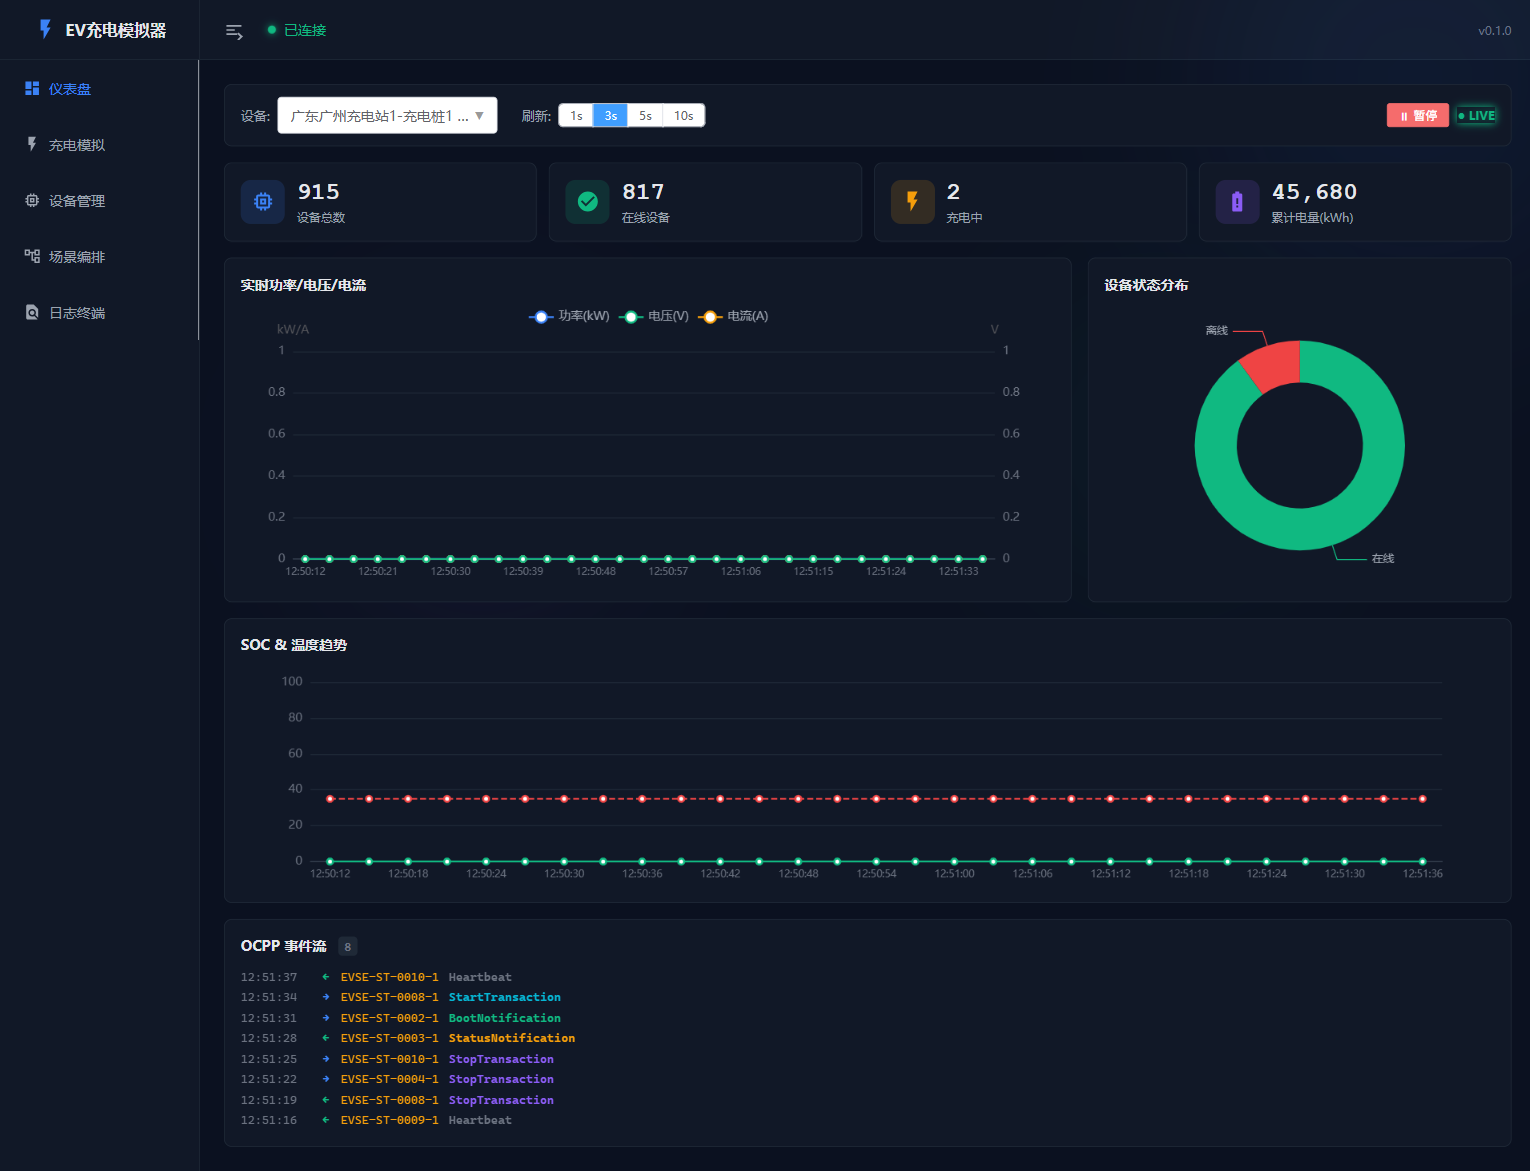
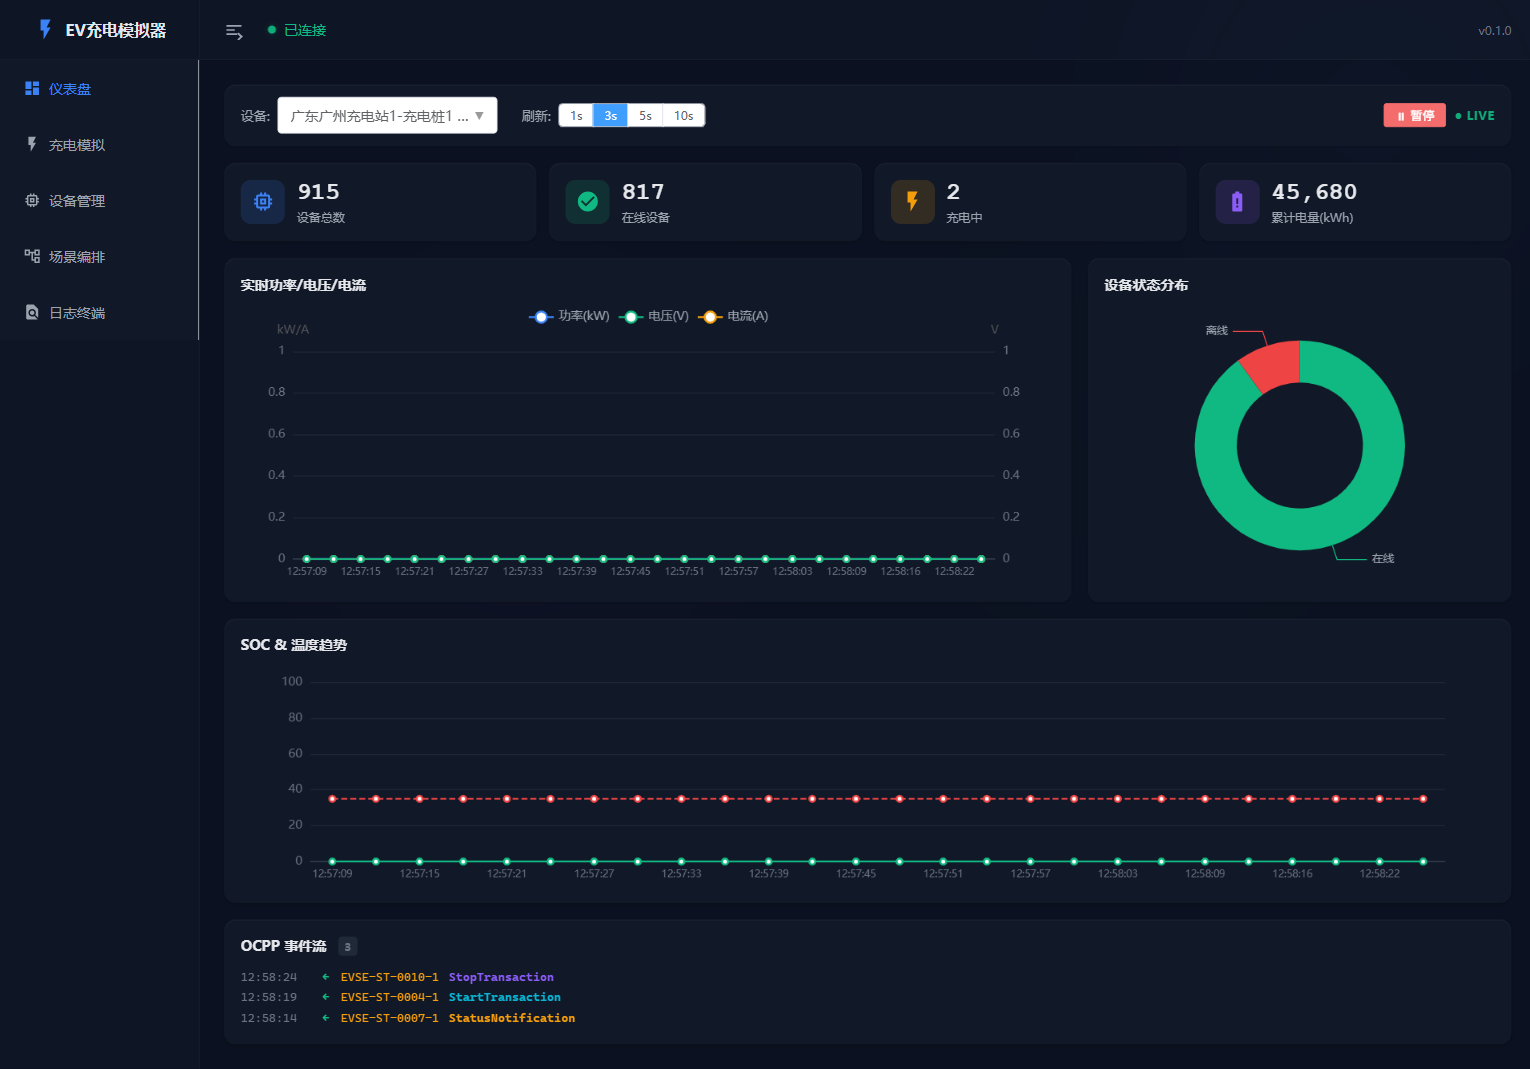
fix(simulator): refined UI - borderless cards, subtle glow, comfortable design
- Remove hard card borders, use transparent border + subtle shadow
- Reduce glow intensity from 0.3 to 0.15 opacity
- Ambient orbs: opacity 0.07 → 0.03, blur 80px → 120px
- Stat icon hover: scale 1.1 → 1.05, remove glow box-shadow
- Metric card hover: translateY(-2px) → translateY(-1px), remove glow
- LIVE indicator: remove text-shadow, pure color pulse
- SOC ring: remove ring-glow animation, static drop-shadow
- Sidebar/header: borders #1F2937 → rgba(255,255,255,0.04)
- Card hover: background change instead of border glow
- Linear/Vercel/Raycast inspired comfortable aesthetic

diff --git a/apps/simulator-web/src/assets/main.css b/apps/simulator-web/src/assets/main.css
@@ -68,13 +68,13 @@
   --easing-default: cubic-bezier(0.4, 0, 0.2, 1);
   --easing-spring: cubic-bezier(0.16, 1, 0.3, 1);
 
-  /* ===== 发光效果 ===== */
-  --glow-blue: 0 0 20px rgba(59, 130, 246, 0.3), 0 0 40px rgba(59, 130, 246, 0.1);
-  --glow-green: 0 0 20px rgba(16, 185, 129, 0.3), 0 0 40px rgba(16, 185, 129, 0.1);
-  --glow-yellow: 0 0 20px rgba(245, 158, 11, 0.3), 0 0 40px rgba(245, 158, 11, 0.1);
-  --glow-purple: 0 0 20px rgba(139, 92, 246, 0.3), 0 0 40px rgba(139, 92, 246, 0.1);
-  --glow-red: 0 0 20px rgba(239, 68, 68, 0.3), 0 0 40px rgba(239, 68, 68, 0.1);
-  --glow-cyan: 0 0 20px rgba(6, 182, 212, 0.3), 0 0 40px rgba(6, 182, 212, 0.1);
+  /* ===== 发光效果（极柔和） ===== */
+  --glow-blue: 0 0 12px rgba(59, 130, 246, 0.15);
+  --glow-green: 0 0 12px rgba(16, 185, 129, 0.15);
+  --glow-yellow: 0 0 12px rgba(245, 158, 11, 0.15);
+  --glow-purple: 0 0 12px rgba(139, 92, 246, 0.15);
+  --glow-red: 0 0 12px rgba(239, 68, 68, 0.15);
+  --glow-cyan: 0 0 12px rgba(6, 182, 212, 0.15);
 
   /* ===== 布局 ===== */
   --sidebar-width: 200px;
@@ -134,14 +134,15 @@ html, body, #app {
 
 .status-dot.online {
   background: var(--color-success);
-  box-shadow: 0 0 6px var(--color-success);
+  box-shadow: 0 0 4px rgba(16, 185, 129, 0.25);
 }
 
 .status-dot.offline { background: var(--color-error); }
 
 .status-dot.charging {
   background: var(--color-warning);
-  animation: pulse 1.5s infinite;
+  box-shadow: 0 0 4px rgba(245, 158, 11, 0.25);
+  animation: glow-pulse 2.5s ease-in-out infinite;
 }
 
 @keyframes pulse {
@@ -185,38 +186,23 @@ html, body, #app {
   --el-dialog-title-font-size: 16px;
 }
 
-/* ===== 增强卡片样式（发光边框 + 悬浮效果） ===== */
+/* ===== 增强卡片样式（无边框 + 微妙深度） ===== */
 .card {
   background: var(--color-bg-card);
-  border: 1px solid var(--color-border-light);
-  border-radius: var(--radius-md);
+  border: 1px solid transparent;
+  border-radius: var(--radius-lg);
   padding: var(--space-16);
-  transition: border-color var(--duration-normal) var(--easing-default),
+  transition: background var(--duration-normal) var(--easing-default),
               box-shadow var(--duration-normal) var(--easing-default),
               transform var(--duration-fast) var(--easing-spring);
   position: relative;
   overflow: hidden;
-}
-
-.card::before {
-  content: '';
-  position: absolute;
-  top: 0;
-  left: 0;
-  right: 0;
-  height: 1px;
-  background: linear-gradient(90deg, transparent, rgba(59, 130, 246, 0.3), transparent);
-  opacity: 0;
-  transition: opacity var(--duration-normal);
+  box-shadow: 0 1px 3px rgba(0, 0, 0, 0.2), inset 0 1px 0 rgba(255, 255, 255, 0.03);
 }
 
 .card:hover {
-  border-color: rgba(59, 130, 246, 0.2);
-  box-shadow: 0 0 20px rgba(59, 130, 246, 0.08);
-}
-
-.card:hover::before {
-  opacity: 1;
+  background: #151d2e;
+  box-shadow: 0 4px 12px rgba(0, 0, 0, 0.25), inset 0 1px 0 rgba(255, 255, 255, 0.05);
 }
 
 /* ===== 入场动画 ===== */
@@ -264,15 +250,13 @@ html, body, #app {
   }
 }
 
-/* ===== 发光脉冲 ===== */
+/* ===== 发光脉冲（柔和版） ===== */
 @keyframes glow-pulse {
   0%, 100% {
-    box-shadow: 0 0 8px currentColor;
     opacity: 1;
   }
   50% {
-    box-shadow: 0 0 16px currentColor, 0 0 32px currentColor;
-    opacity: 0.8;
+    opacity: 0.7;
   }
 }
 
@@ -351,17 +335,17 @@ html, body, #app {
   to { transform: rotate(360deg); }
 }
 
-/* ===== 状态点脉冲增强 ===== */
+/* ===== 状态点脉冲（柔和） ===== */
 .status-dot.online {
   background: var(--color-success);
-  box-shadow: 0 0 6px var(--color-success);
-  animation: glow-pulse 2s ease-in-out infinite;
+  box-shadow: 0 0 6px rgba(16, 185, 129, 0.3);
+  animation: glow-pulse 2.5s ease-in-out infinite;
   color: var(--color-success);
 }
 
 .status-dot.charging {
   background: var(--color-warning);
-  box-shadow: 0 0 8px var(--color-warning);
-  animation: glow-pulse 1.5s ease-in-out infinite;
+  box-shadow: 0 0 6px rgba(245, 158, 11, 0.3);
+  animation: glow-pulse 2s ease-in-out infinite;
   color: var(--color-warning);
 }

diff --git a/apps/simulator-web/src/views/charging/index.vue b/apps/simulator-web/src/views/charging/index.vue
@@ -342,7 +342,7 @@ const socColor = computed(() => {
 
 .soc-progress {
   transition: stroke-dasharray 1s ease;
-  animation: ring-glow 3s ease-in-out infinite;
+  filter: drop-shadow(0 0 3px currentColor);
 }
 
 .soc-center {
@@ -374,12 +374,12 @@ const socColor = computed(() => {
 .metric-card {
   padding: 16px;
   text-align: center;
-  transition: transform var(--duration-normal) var(--easing-spring),
-              box-shadow var(--duration-normal);
+  transition: background var(--duration-normal) var(--easing-default),
+              transform var(--duration-normal) var(--easing-spring);
 }
 .metric-card:hover {
-  transform: translateY(-2px);
-  box-shadow: 0 4px 20px rgba(0, 0, 0, 0.3);
+  transform: translateY(-1px);
+  background: #151d2e;
 }
 
 .metric-icon-wrap {
@@ -390,18 +390,11 @@ const socColor = computed(() => {
   align-items: center;
   justify-content: center;
   margin: 0 auto 10px;
-  transition: transform var(--duration-normal) var(--easing-spring),
-              box-shadow var(--duration-normal);
+  transition: transform var(--duration-normal) var(--easing-spring);
 }
 .metric-card:hover .metric-icon-wrap {
-  transform: scale(1.15) rotate(-5deg);
+  transform: scale(1.05);
 }
-.metric-card:hover .metric-icon-blue { box-shadow: var(--glow-blue); }
-.metric-card:hover .metric-icon-green { box-shadow: var(--glow-green); }
-.metric-card:hover .metric-icon-purple { box-shadow: var(--glow-purple); }
-.metric-card:hover .metric-icon-yellow { box-shadow: var(--glow-yellow); }
-.metric-card:hover .metric-icon-cyan { box-shadow: var(--glow-cyan); }
-.metric-card:hover .metric-icon-red { box-shadow: var(--glow-red); }
 .metric-icon-blue { background: rgba(59, 130, 246, 0.15); }
 .metric-icon-green { background: rgba(16, 185, 129, 0.15); }
 .metric-icon-purple { background: rgba(139, 92, 246, 0.15); }

diff --git a/apps/simulator-web/src/views/dashboard/index.vue b/apps/simulator-web/src/views/dashboard/index.vue
@@ -364,8 +364,8 @@ const eventLevelColors: Record<string, string> = {
 .ambient-orb {
   position: absolute;
   border-radius: 50%;
-  filter: blur(80px);
-  opacity: 0.07;
+  filter: blur(120px);
+  opacity: 0.03;
 }
 .orb-blue {
   width: 400px;
@@ -402,11 +402,11 @@ const eventLevelColors: Record<string, string> = {
 .live-indicator {
   color: #10B981;
   font-size: 12px;
-  font-weight: bold;
-  text-shadow: 0 0 8px rgba(16, 185, 129, 0.6);
-  animation: glow-pulse 2s ease-in-out infinite;
+  font-weight: 600;
+  letter-spacing: 0.5px;
+  animation: glow-pulse 2.5s ease-in-out infinite;
 }
-.live-indicator.paused { color: #6B7280; animation: none; text-shadow: none; }
+.live-indicator.paused { color: #6B7280; animation: none; }
 
 .stats-grid { display: grid; grid-template-columns: repeat(4, 1fr); gap: 12px; }
 .stat-card { display: flex; align-items: center; gap: 12px; padding: 16px; }
@@ -418,16 +418,11 @@ const eventLevelColors: Record<string, string> = {
   align-items: center;
   justify-content: center;
   flex-shrink: 0;
-  transition: transform var(--duration-normal) var(--easing-spring),
-              box-shadow var(--duration-normal);
+  transition: transform var(--duration-normal) var(--easing-spring);
 }
 .stat-card:hover .stat-icon-wrap {
-  transform: scale(1.1);
+  transform: scale(1.05);
 }
-.stat-card:hover .stat-icon-blue { box-shadow: var(--glow-blue); }
-.stat-card:hover .stat-icon-green { box-shadow: var(--glow-green); }
-.stat-card:hover .stat-icon-yellow { box-shadow: var(--glow-yellow); }
-.stat-card:hover .stat-icon-purple { box-shadow: var(--glow-purple); }
 .stat-icon-blue { background: rgba(59, 130, 246, 0.15); }
 .stat-icon-green { background: rgba(16, 185, 129, 0.15); }
 .stat-icon-yellow { background: rgba(245, 158, 11, 0.15); }

diff --git a/apps/simulator-web/src/layouts/MainLayout.vue b/apps/simulator-web/src/layouts/MainLayout.vue
@@ -70,8 +70,8 @@ const toggleCollapse = () => {
 
 <style scoped>
 .sidebar {
-  background-color: #111827;
-  border-right: 1px solid #1F2937;
+  background-color: #0e1525;
+  border-right: 1px solid rgba(255, 255, 255, 0.04);
   transition: width 0.3s;
   overflow: hidden;
 }
@@ -82,7 +82,7 @@ const toggleCollapse = () => {
   align-items: center;
   justify-content: center;
   gap: 8px;
-  border-bottom: 1px solid #1F2937;
+  border-bottom: 1px solid rgba(255, 255, 255, 0.04);
 }
 
 .logo-icon {
@@ -96,8 +96,8 @@ const toggleCollapse = () => {
 }
 
 .header {
-  background: #111827;
-  border-bottom: 1px solid #1F2937;
+  background: #0e1525;
+  border-bottom: 1px solid rgba(255, 255, 255, 0.04);
   display: flex;
   align-items: center;
   justify-content: space-between;